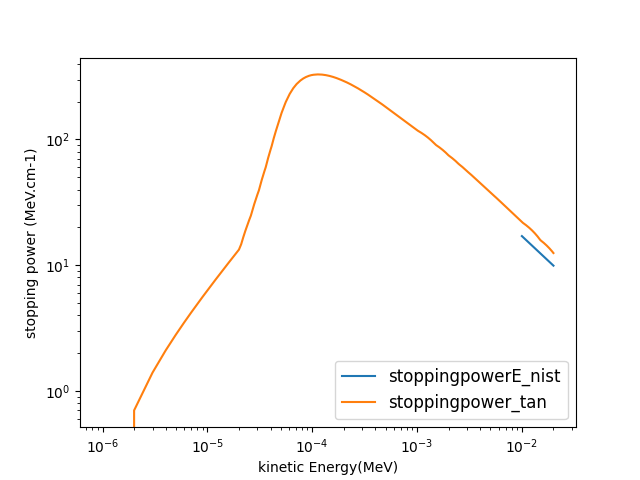
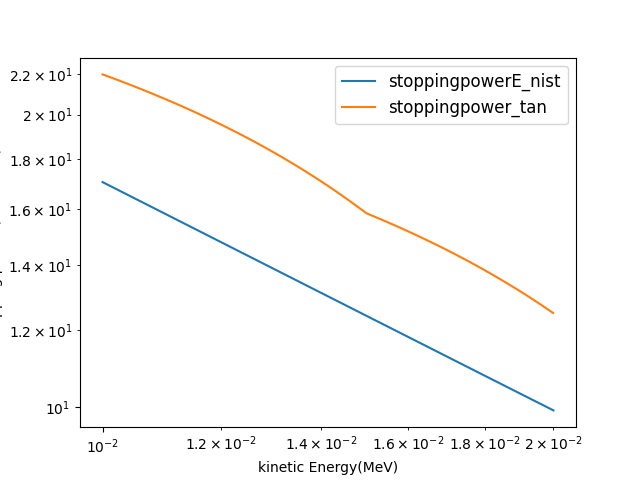
test4

diff --git a/MCTDCRcode/TDCR_model_lib.py b/MCTDCRcode/TDCR_model_lib.py
@@ -277,8 +277,8 @@ e1 = np.linspace(1e4,2e4,1000)
 for i in e1:
     dEdx1.append(stop(i,rho=0.866,Z=5.199,A=11.04))
 #'''
-e2 = np.linspace(0,1.999e4,20000)
-for i in range(20000):
+e2 = np.linspace(1e4,1.999e4,10000)
+for i in range(10000):
      position = int(e2[i])
      dEdx2.append(float(data_TanXia_f[position]))
 #'''
@@ -357,7 +357,7 @@ for i in range(800000):
 #'''
 #e1 = np.linspace(2e-5,2e-2,1000)
 x1 = np.linspace(1e-2,2e-2,1000)
-x2 = np.linspace(0,1.999e-2,20000)
+x2 = np.linspace(1e-2,1.999e-2,10000)
 plt.plot(x1,dEdx1,label='stoppingpowerE_nist')
 plt.plot(x2,dEdx2,label='stoppingpower_tan')
 plt.xscale('log')
